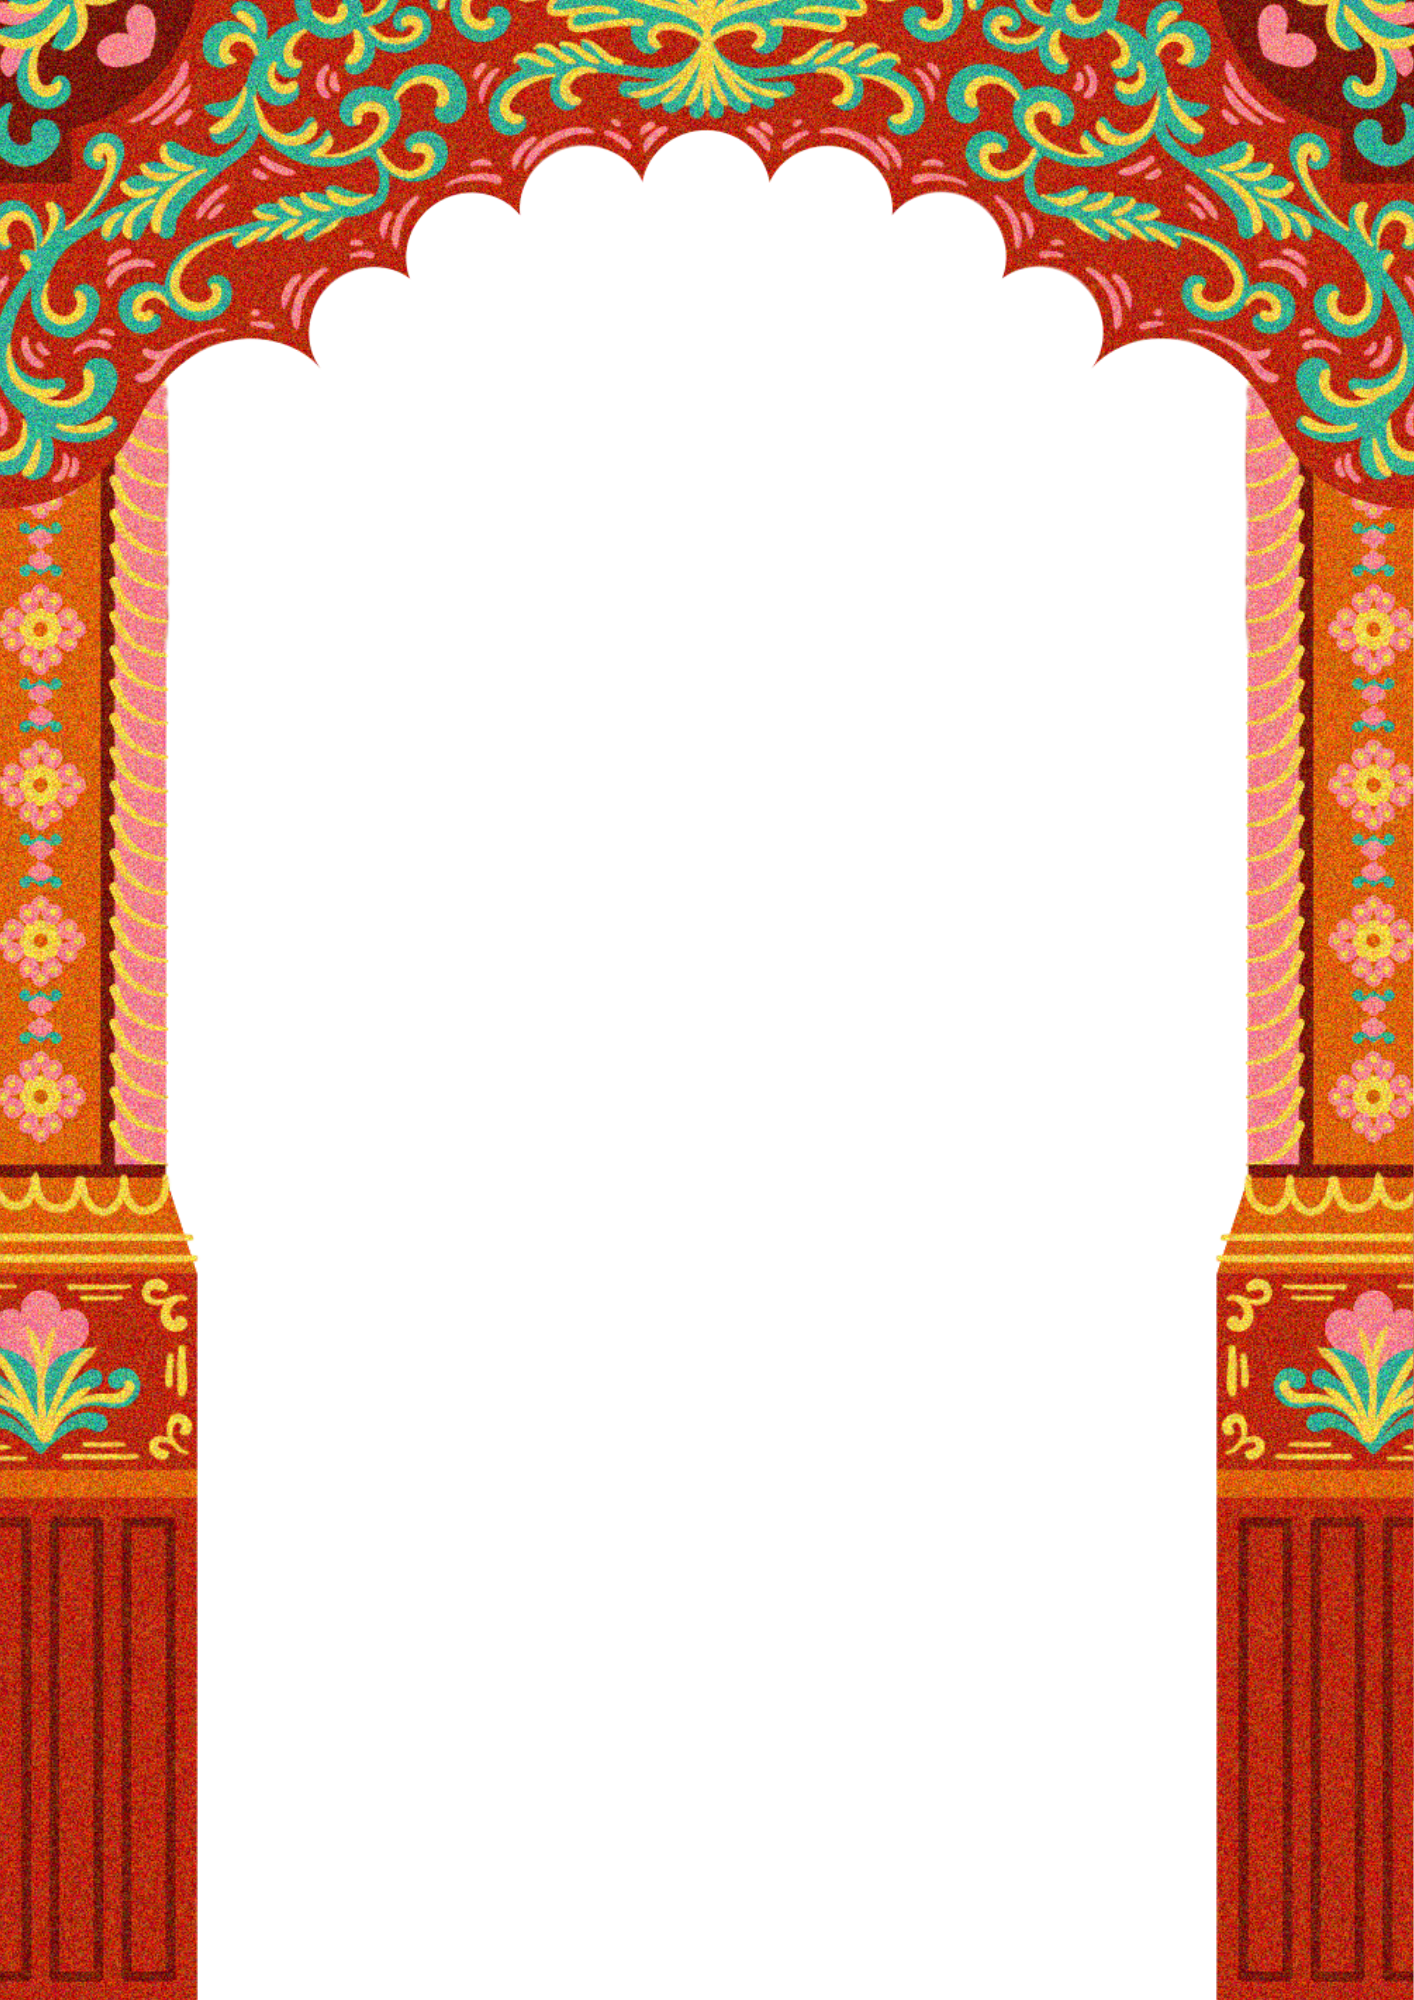
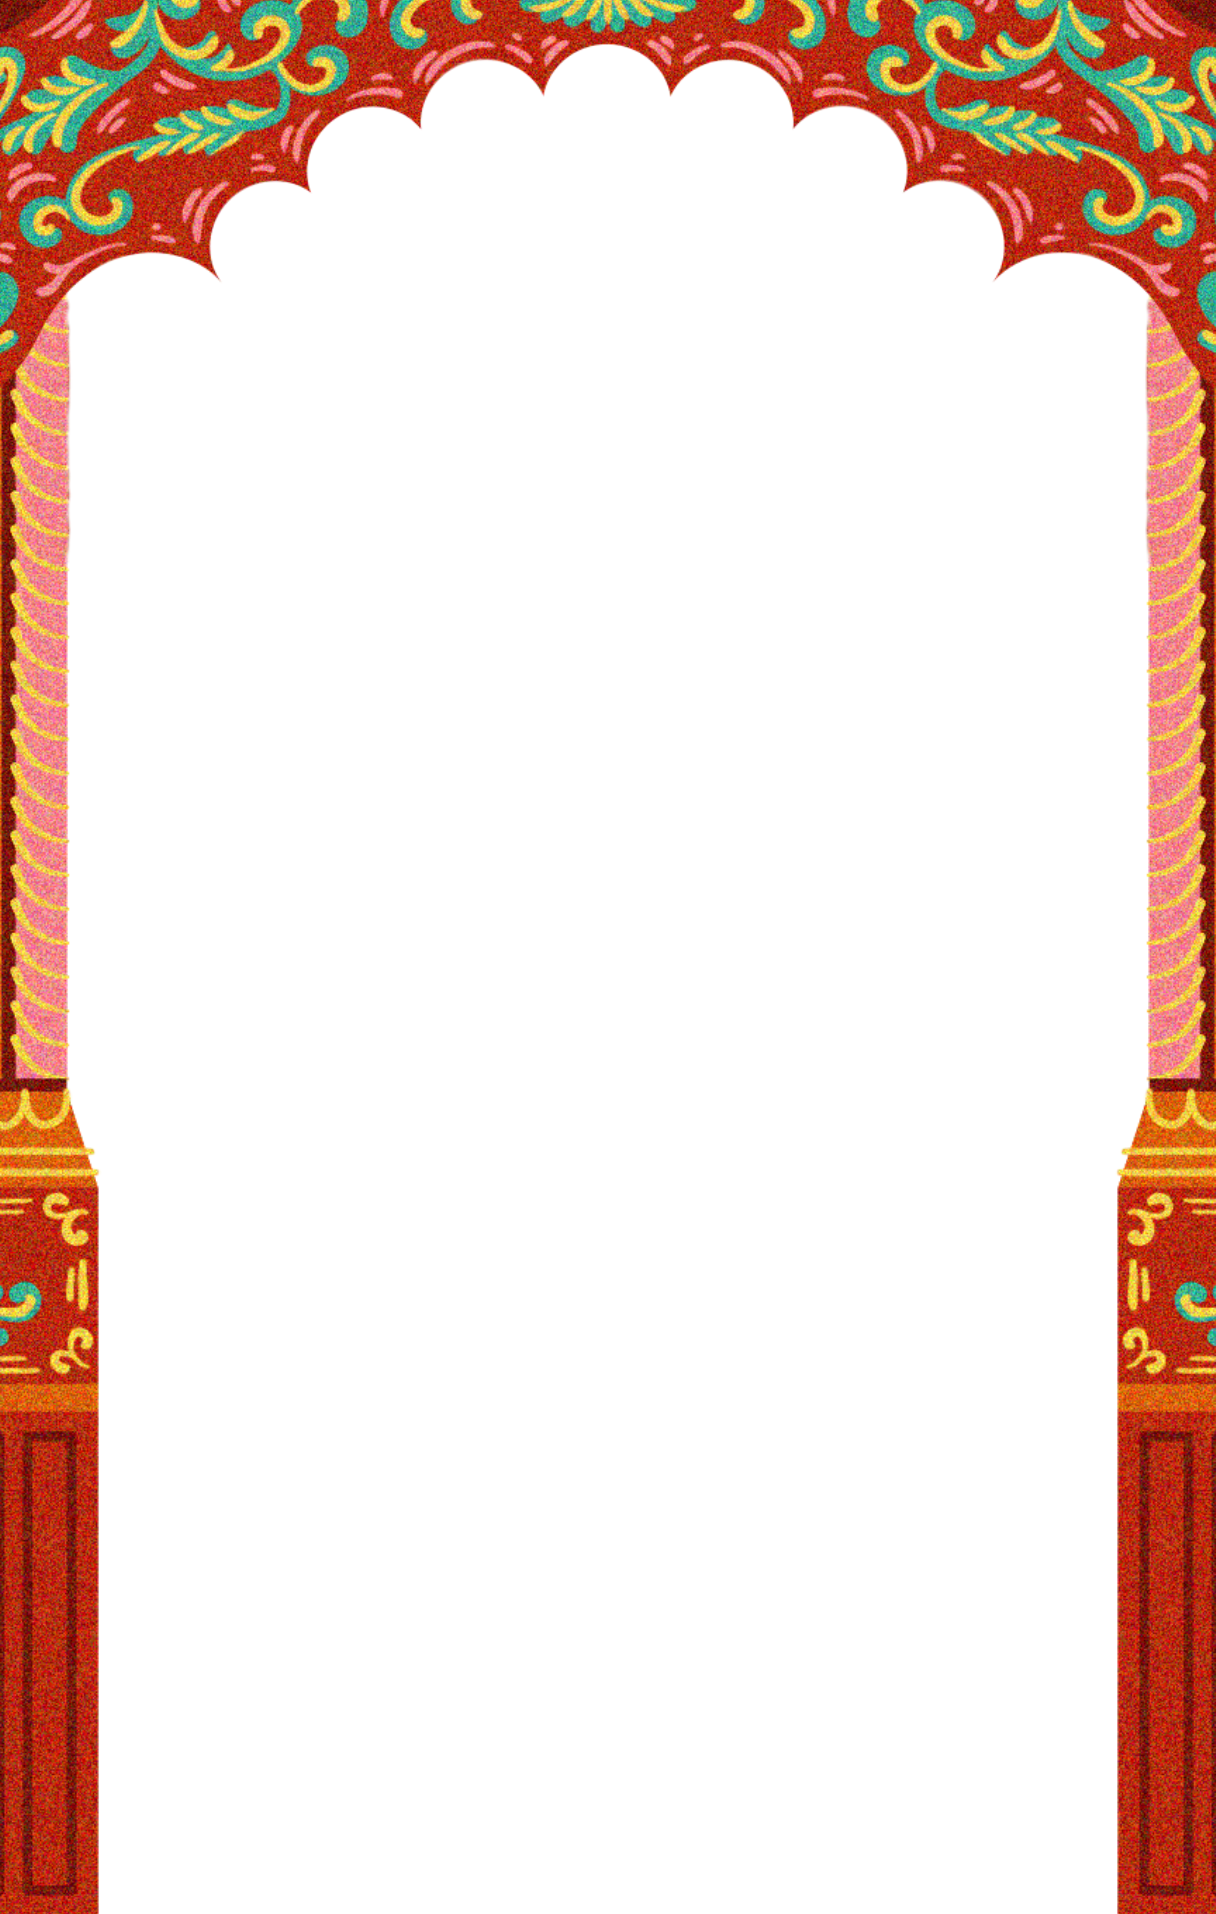
corrected bg and dates

diff --git a/index.html b/index.html
@@ -215,7 +215,9 @@
      <p data-template-id="groom-name" class="canva-text serif mt-8 hero-reveal script-names" style="font-size: 58px; font-weight: 500; color: rgb(139, 57, 57);">Jay</p>
      <p data-template-id="son-of" class="canva-text serif mt-8 mb-3 hero-reveal" style="font-size: 16px; color: rgb(72, 58, 51); font-weight: 400; font-style: normal;">Son of</p>
      <p data-template-id="groom-parents-invitation" class="canva-text serif leading-relaxed hero-reveal" style="font-size: 18px; color: rgb(72, 58, 51); font-weight: 400; font-style: normal;"><strong>Mrs. Aarti Mehta</strong> and <strong>Mr. Deepak Mehta</strong></p><div class="fine-rule mt-9 mb-4"></div>
-     <p data-template-id="wedding-date" class="canva-text uppercase tracking-[.22em] hero-reveal" style="font-size: 12px; font-weight: 700; color: rgb(40, 92, 88); font-style: normal;">On 2nd February 2027 | Tuesday | 4:30pm</p>
+     <p data-template-id="wedding-date" class="canva-text uppercase tracking-[.22em] hero-reveal" style="font-size: 12px; font-weight: 700; color: rgb(40, 92, 88); font-style: normal;">On 2nd February 2027</p>
+      <p data-template-id="wedding-date" class="canva-text uppercase tracking-[.22em] hero-reveal" style="font-size: 12px; font-weight: 700; color: rgb(40, 92, 88); font-style: normal;">Tuesday | 4:30pm</p>
+
      <div class="fine-rule mt-4 mb-5"></div>
      <p data-template-id="wedding-venue" class="canva-text serif italic hero-reveal" style="font-size: 22px; color: rgb(166, 85, 75); font-weight: 400; font-style: italic;">At Azzaro Resorts and Spa</p>
      <p data-template-id="wedding-location" class="canva-text mt-2 uppercase hero-reveal" style="font-size: 15px; color: rgb(72, 58, 51); font-weight: 400; font-style: normal;">Diu</p>
